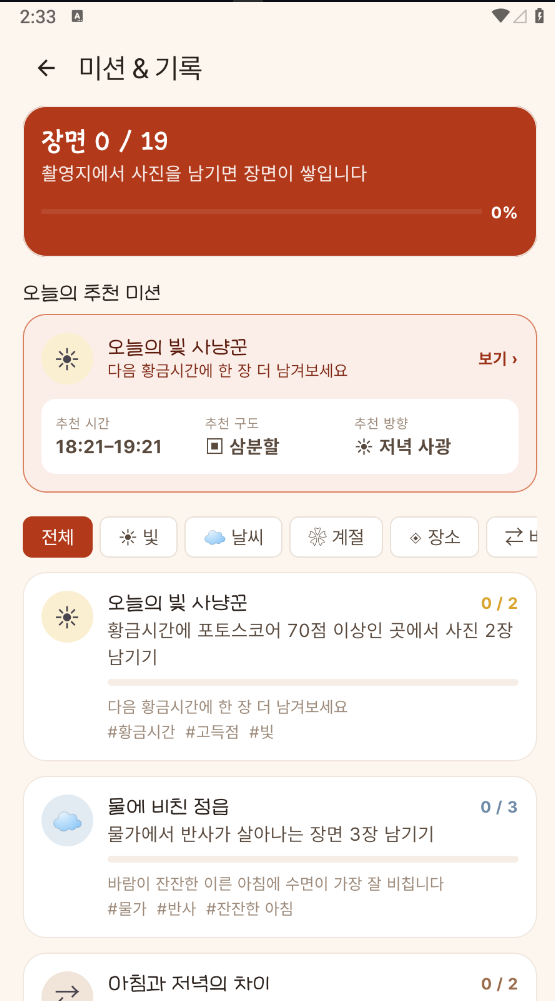
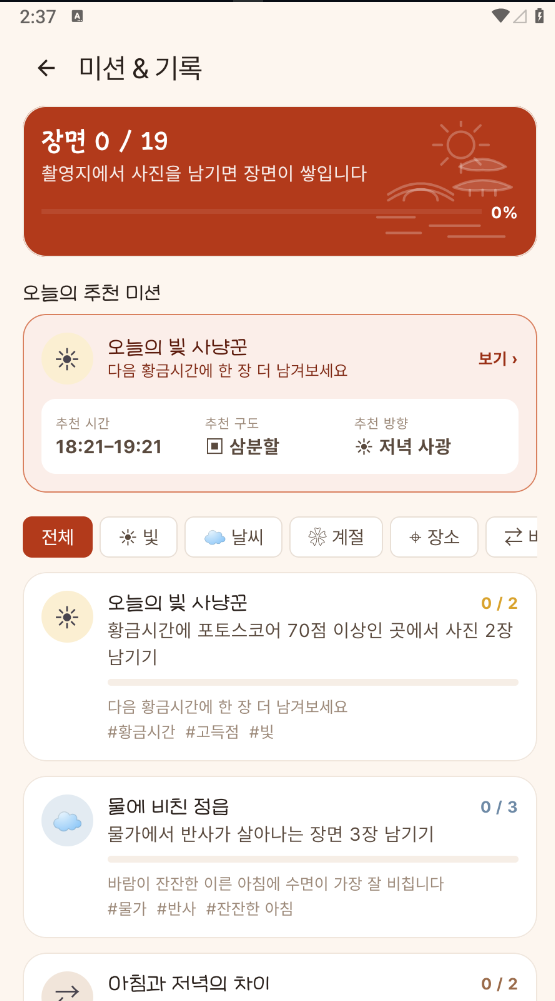
feat(mission): 헤더에 정읍 장면 그림, 장소 아이콘을 핀으로
**"장면 0 / 19" 옆이 비어 있었습니다.** 아무 그림이나 채우면 장식이
되므로, 이 앱이 세는 장면이 무엇인지를 그립니다 — 해가 뜨고, 오래된
지붕이 있고, 그 아래 물이 흐르는 것. 정읍에서 모으게 되는 장면입니다.

선만 그리고 면은 거의 채우지 않습니다. 카드 바탕이 이미 진한 단풍색이라
면을 칠하면 글자와 무게가 같아져 "장면 0 / 19" 가 안 읽힙니다. 흰색을
옅게 깔아 배경으로 물러나 있게 합니다.

글과 그림을 나란히 두지 않고 겹칩니다. 나란히 두면 글이 들어갈 폭이
줄어 "장면 0 / 19" 가 두 줄로 접힙니다.

이미지가 아니라 Canvas 로 그립니다. PNG 로 두면 카드 색이 바뀔 때마다
다시 뽑아야 합니다. 지붕은 기와를 한 장씩 그리지 않고 처마가 들린 곡선
한 획으로 말합니다. 이 크기에서 기와를 그리면 뭉쳐 보이기만 합니다.

**장소 아이콘을 ◈ 에서 ⌖ 로** 바꿨습니다. 마름모는 무엇을 가리키는지
읽히지 않는데, 핀은 지도에서 이미 배운 모양이라 설명이 필요 없습니다.

Changed region(s): [[0.7045, 0.1239, 0.9189, 0.2478], [0.7351, 0.5265, 0.7964, 0.5574]]

diff --git a/app/src/main/java/com/youngs/picview/ui/mission/MissionSceneView.kt b/app/src/main/java/com/youngs/picview/ui/mission/MissionSceneView.kt
@@ -1,0 +1,156 @@
+package com.youngs.picview.ui.mission
+
+import android.content.Context
+import android.graphics.Canvas
+import android.graphics.Color
+import android.graphics.Paint
+import android.graphics.Path
+import android.graphics.RectF
+import android.util.AttributeSet
+import android.view.View
+import kotlin.math.PI
+import kotlin.math.cos
+import kotlin.math.sin
+
+/**
+ * 미션 헤더의 장식 그림 — 해 · 정자 · 무지개다리 · 물.
+ *
+ * "장면 0 / 19" 옆의 빈 자리를 채웁니다. 다만 아무 그림이나 넣으면 장식이
+ * 되므로, **이 앱이 세는 장면이 무엇인지**를 그립니다. 해가 뜨고, 오래된
+ * 지붕이 있고, 그 아래 물이 흐르는 것 — 정읍에서 모으게 되는 장면입니다.
+ *
+ * 선만 그리고 채우지 않습니다. 카드 바탕이 이미 진한 단풍색이라 면을
+ * 칠하면 글자와 무게가 같아져 "장면 0 / 19" 가 안 읽힙니다. 흰색을 아주
+ * 옅게 깔아 배경으로 물러나 있게 합니다.
+ *
+ * 이미지가 아니라 코드로 그리는 이유는 카드 색이 바뀌어도 따라오게 하기
+ * 위해서입니다. PNG 로 두면 배경색이 바뀔 때마다 다시 뽑아야 합니다.
+ */
+class MissionSceneView @JvmOverloads constructor(
+    context: Context,
+    attrs: AttributeSet? = null,
+    defStyleAttr: Int = 0
+) : View(context, attrs, defStyleAttr) {
+
+    private val density = resources.displayMetrics.density
+    private fun dp(v: Float) = v * density
+
+    private val linePaint = Paint(Paint.ANTI_ALIAS_FLAG).apply {
+        style = Paint.Style.STROKE
+        strokeCap = Paint.Cap.ROUND
+        strokeJoin = Paint.Join.ROUND
+        color = Color.WHITE
+        alpha = 82
+    }
+    private val fillPaint = Paint(Paint.ANTI_ALIAS_FLAG).apply {
+        color = Color.WHITE
+        alpha = 46
+    }
+
+    private val path = Path()
+    private val rect = RectF()
+
+    override fun onMeasure(widthMeasureSpec: Int, heightMeasureSpec: Int) {
+        // 폭을 주면 높이는 비율로 따라옵니다. 카드 안 장식이라 스스로
+        // 크기를 정하지 않고 놓인 자리에 맞춥니다.
+        val width = MeasureSpec.getSize(widthMeasureSpec)
+        setMeasuredDimension(width, resolveSize((width * 0.78f).toInt(), heightMeasureSpec))
+    }
+
+    override fun onDraw(canvas: Canvas) {
+        val w = width.toFloat()
+        val h = height.toFloat()
+        if (w <= 0f || h <= 0f) return
+
+        linePaint.strokeWidth = w * 0.016f
+
+        drawSun(canvas, w * 0.60f, h * 0.20f, w * 0.085f)
+        drawPavilion(canvas, w * 0.74f, h * 0.62f, w * 0.30f)
+        drawBridge(canvas, w * 0.34f, h * 0.66f, w * 0.42f)
+        drawWater(canvas, w, h)
+    }
+
+    /** 해. 동그라미 하나에 짧은 빛살 여덟. */
+    private fun drawSun(canvas: Canvas, cx: Float, cy: Float, r: Float) {
+        canvas.drawCircle(cx, cy, r, linePaint)
+        for (i in 0 until 8) {
+            val a = i * PI / 4
+            canvas.drawLine(
+                cx + (r * 1.45f) * cos(a).toFloat(), cy + (r * 1.45f) * sin(a).toFloat(),
+                cx + (r * 2.1f) * cos(a).toFloat(), cy + (r * 2.1f) * sin(a).toFloat(),
+                linePaint
+            )
+        }
+    }
+
+    /**
+     * 정자.
+     *
+     * 처마가 위로 들린 곡선이 한옥 지붕을 한 획으로 말합니다. 기와 한 장씩
+     * 그리면 이 크기에서는 뭉쳐 보이기만 합니다.
+     */
+    private fun drawPavilion(canvas: Canvas, cx: Float, baseY: Float, size: Float) {
+        val half = size / 2f
+
+        // 위 지붕
+        path.reset()
+        path.moveTo(cx - half, baseY - size * 0.62f)
+        path.quadTo(cx, baseY - size * 0.95f, cx + half, baseY - size * 0.62f)
+        path.quadTo(cx + half * 0.6f, baseY - size * 0.52f, cx, baseY - size * 0.55f)
+        path.quadTo(cx - half * 0.6f, baseY - size * 0.52f, cx - half, baseY - size * 0.62f)
+        path.close()
+        canvas.drawPath(path, fillPaint)
+        canvas.drawPath(path, linePaint)
+
+        // 아래 지붕 — 두 겹이라야 정자로 보입니다.
+        path.reset()
+        path.moveTo(cx - half * 1.25f, baseY - size * 0.18f)
+        path.quadTo(cx, baseY - size * 0.48f, cx + half * 1.25f, baseY - size * 0.18f)
+        path.quadTo(cx + half * 0.7f, baseY - size * 0.08f, cx, baseY - size * 0.12f)
+        path.quadTo(cx - half * 0.7f, baseY - size * 0.08f, cx - half * 1.25f, baseY - size * 0.18f)
+        path.close()
+        canvas.drawPath(path, fillPaint)
+        canvas.drawPath(path, linePaint)
+
+        // 기둥 셋
+        for (offset in listOf(-0.55f, 0f, 0.55f)) {
+            val x = cx + half * offset
+            canvas.drawLine(x, baseY - size * 0.12f, x, baseY, linePaint)
+        }
+    }
+
+    /** 무지개다리. 아치 하나와 그 위 난간. */
+    private fun drawBridge(canvas: Canvas, cx: Float, baseY: Float, span: Float) {
+        val half = span / 2f
+        val rise = span * 0.34f
+
+        // 아치 아래쪽(물에 닿는 반원)
+        rect.set(cx - half * 0.52f, baseY - rise * 0.5f, cx + half * 0.52f, baseY + rise * 0.5f)
+        canvas.drawArc(rect, 180f, 180f, false, linePaint)
+
+        // 상판
+        path.reset()
+        path.moveTo(cx - half, baseY)
+        path.quadTo(cx, baseY - rise, cx + half, baseY)
+        canvas.drawPath(path, linePaint)
+
+        // 난간 — 상판을 따라 조금 위로
+        path.reset()
+        path.moveTo(cx - half, baseY - span * 0.09f)
+        path.quadTo(cx, baseY - rise - span * 0.09f, cx + half, baseY - span * 0.09f)
+        canvas.drawPath(path, linePaint)
+    }
+
+    /** 물. 짧은 선 몇 개면 물결로 읽힙니다. */
+    private fun drawWater(canvas: Canvas, w: Float, h: Float) {
+        val lines = listOf(
+            Triple(0.06f, 0.30f, 0.80f),
+            Triple(0.40f, 0.72f, 0.87f),
+            Triple(0.12f, 0.34f, 0.93f),
+            Triple(0.52f, 0.88f, 0.96f)
+        )
+        lines.forEach { (from, to, y) ->
+            canvas.drawLine(w * from, h * y, w * to, h * y, linePaint)
+        }
+    }
+}

diff --git a/app/src/main/java/com/youngs/picview/domain/mission/MissionType.kt b/app/src/main/java/com/youngs/picview/domain/mission/MissionType.kt
@@ -28,7 +28,7 @@ enum class MissionType(
     LIGHT("빛", "☀", "빛을 발견했어요", R.color.mission_light, R.color.mission_light_soft),
     WEATHER("날씨", "☁", "색을 기록했어요", R.color.mission_weather, R.color.mission_weather_soft),
     SEASON("계절", "❀", "계절을 관찰했어요", R.color.mission_season, R.color.mission_season_soft),
-    PLACE("장소", "◈", "장면을 발견했어요", R.color.mission_place, R.color.mission_place_soft),
+    PLACE("장소", "⌖", "장면을 발견했어요", R.color.mission_place, R.color.mission_place_soft),
     COMPARE("비교", "⇄", "차이를 비교했어요", R.color.mission_compare, R.color.mission_compare_soft),
     RECORD("기록", "✎", "정읍을 완성했어요", R.color.mission_record, R.color.mission_record_soft),
     SHARE("공유", "↗", "오늘의 정읍을 소개했어요", R.color.mission_share, R.color.mission_share_soft)
